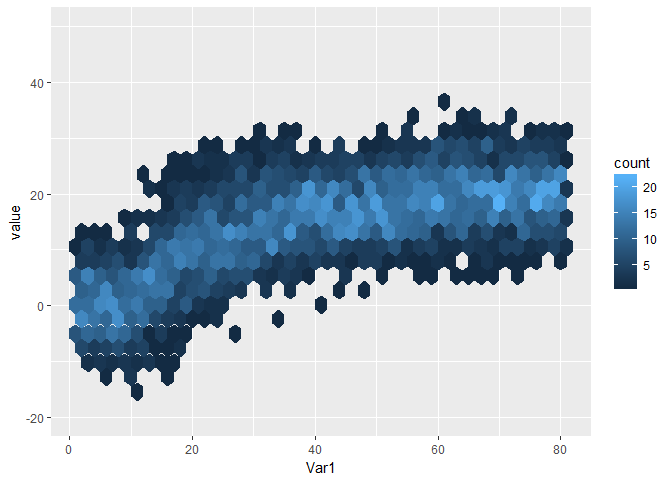
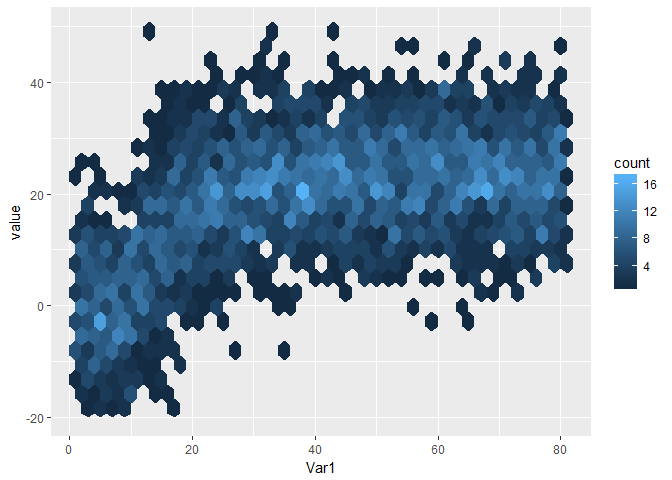
Tweak parameters

diff --git a/README.md b/README.md
@@ -15,6 +15,8 @@ This is a basic example which shows you how to solve a common problem:
 
 ![](readme-figs/README-plot2-1.png)
 
+    #> Warning: Removed 6 rows containing non-finite values (stat_binhex).
+
 ![](readme-figs/README-unnamed-chunk-2-1.png)![](readme-figs/README-unnamed-chunk-2-2.png)
 
     #> Warning: Removed 101 rows containing non-finite values (stat_binhex).
